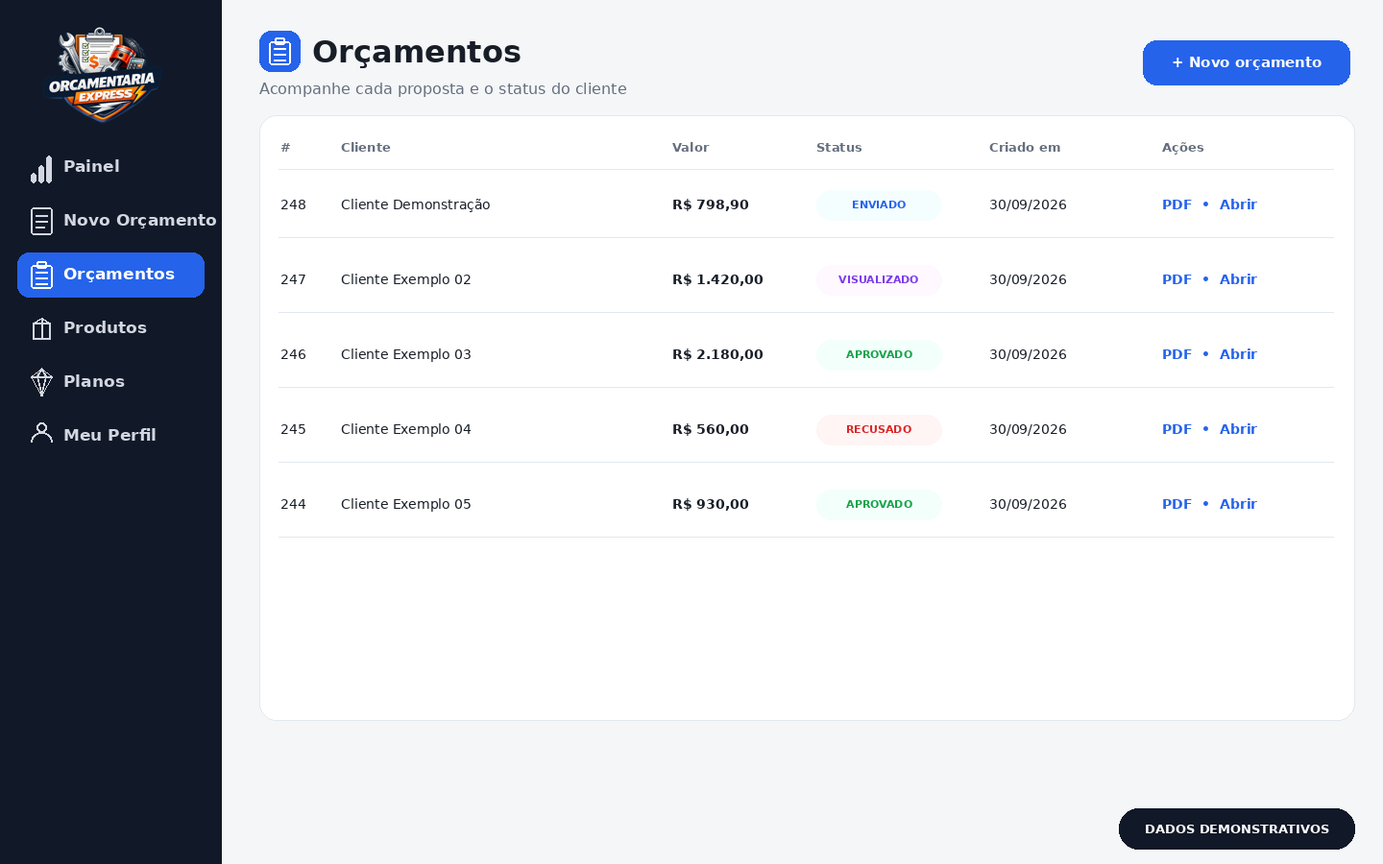
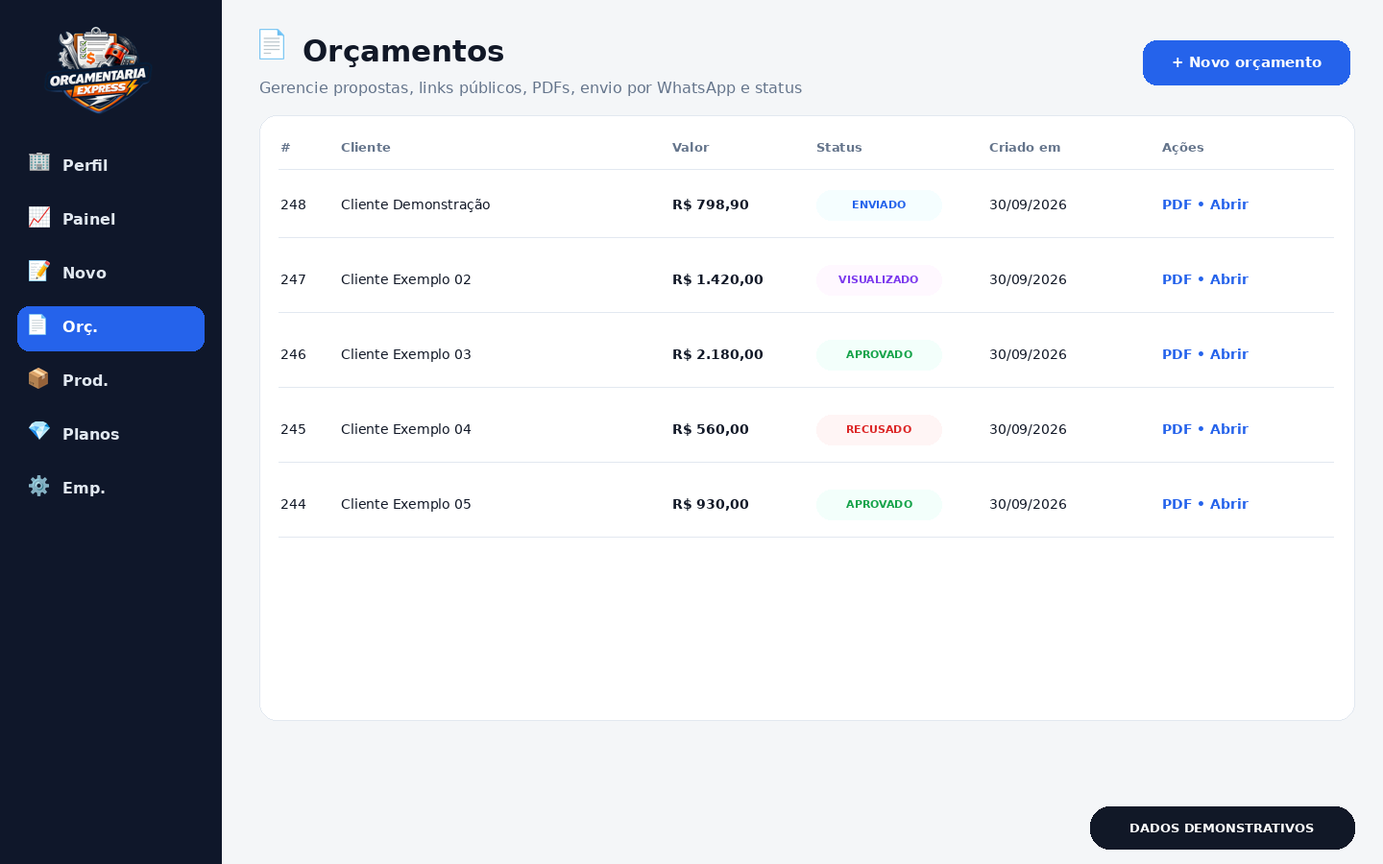
Padroniza títulos do sistema e atualiza README com novos screenshots

diff --git a/public/novo_orcamento.php b/public/novo_orcamento.php
@@ -8,8 +8,8 @@ layout_header('Novo Orçamento');
 ?>
 
 <style>
-.orc-wrap{max-width:980px;margin:0 auto;padding-bottom:92px}.orc-top{display:flex;align-items:flex-start;justify-content:space-between;gap:16px;margin-bottom:18px}.orc-title h2{font-size:clamp(1.35rem,2vw,1.9rem);font-weight:800;color:#111827;margin:0}.orc-title p{margin:4px 0 0;color:#6b7280;font-size:.95rem}.orc-back{color:#4b5563;font-weight:700;text-decoration:none;white-space:nowrap}.orc-card{background:#fff;border:1px solid #e5e7eb;border-radius:22px;box-shadow:0 12px 30px rgba(15,23,42,.08);overflow:hidden}.orc-progress{display:grid;grid-template-columns:repeat(3,1fr);gap:10px;padding:16px;background:linear-gradient(180deg,#f8fafc,#fff);border-bottom:1px solid #e5e7eb}.orc-step-pill{display:flex;align-items:center;gap:10px;padding:12px;border-radius:18px;border:1px solid #e5e7eb;background:#fff;color:#6b7280}.orc-step-pill strong{display:flex;align-items:center;justify-content:center;width:30px;height:30px;border-radius:999px;background:#f3f4f6;color:#374151;font-size:.9rem}.orc-step-pill span{font-weight:800;font-size:.92rem}.orc-step-pill small{display:block;font-size:.72rem;font-weight:600;color:#9ca3af}.orc-step-pill.active{background:#eff6ff;border-color:#bfdbfe;color:#1d4ed8}.orc-step-pill.active strong{background:#2563eb;color:#fff}.orc-step-pill.done{background:#ecfdf5;border-color:#bbf7d0;color:#047857}.orc-step-pill.done strong{background:#16a34a;color:#fff}.orc-body{padding:20px}.orc-step{display:none}.orc-step.active{display:block}.orc-section-head{display:flex;align-items:flex-start;justify-content:space-between;gap:16px;margin-bottom:16px}.orc-section-head h3{font-size:1.25rem;font-weight:900;color:#111827;margin:0}.orc-section-head p{margin:4px 0 0;color:#6b7280;font-size:.95rem;line-height:1.45}.orc-help{background:#eff6ff;border:1px solid #bfdbfe;color:#1e40af;border-radius:16px;padding:12px 14px;font-size:.9rem;line-height:1.45;margin-bottom:16px}.orc-grid{display:grid;grid-template-columns:1fr 1fr;gap:14px}.orc-field label{display:flex;align-items:center;gap:7px;font-weight:800;color:#374151;margin-bottom:7px}.orc-field input,.orc-field textarea{width:100%;border:1px solid #d1d5db;border-radius:16px;padding:14px 15px;font-size:1rem;outline:none;background:#fff;transition:.18s}.orc-field input:focus,.orc-field textarea:focus{border-color:#2563eb;box-shadow:0 0 0 4px rgba(37,99,235,.12)}.orc-field .hint{font-size:.82rem;color:#6b7280;margin-top:6px}.orc-actions{display:flex;align-items:center;justify-content:space-between;gap:12px;margin-top:20px;border-top:1px solid #f3f4f6;padding-top:18px}.orc-btn{border:0;border-radius:16px;padding:14px 18px;font-weight:900;cursor:pointer;min-height:50px;transition:.18s;text-align:center}.orc-btn:disabled{opacity:.6;cursor:not-allowed}.orc-btn-primary{background:#16a34a;color:#fff;box-shadow:0 10px 20px rgba(22,163,74,.22)}.orc-btn-primary:hover{background:#15803d}.orc-btn-blue{background:#2563eb;color:#fff;box-shadow:0 10px 20px rgba(37,99,235,.22)}.orc-btn-blue:hover{background:#1d4ed8}.orc-btn-light{background:#f3f4f6;color:#374151}.orc-btn-light:hover{background:#e5e7eb}.orc-btn-danger{background:#fee2e2;color:#b91c1c}.orc-btn-danger:hover{background:#fecaca}.orc-btn-full{width:100%}.orc-search-wrap{position:relative}.orc-search-row{display:grid;grid-template-columns:1fr auto;gap:10px}.orc-results{position:absolute;left:0;right:0;top:calc(100% + 8px);background:#fff;border:1px solid #e5e7eb;border-radius:18px;box-shadow:0 18px 40px rgba(15,23,42,.18);overflow:hidden;z-index:20;display:none}.orc-result{width:100%;display:flex;align-items:center;justify-content:space-between;gap:10px;padding:13px 14px;background:#fff;border:0;border-bottom:1px solid #f3f4f6;cursor:pointer;text-align:left}.orc-result:hover{background:#f9fafb}.orc-result strong{color:#111827}.orc-result span{color:#16a34a;font-weight:900;white-space:nowrap}.orc-empty{border:1px dashed #cbd5e1;border-radius:18px;padding:18px;text-align:center;color:#64748b;background:#f8fafc}.orc-items{display:flex;flex-direction:column;gap:12px;margin-top:16px}.orc-item{border:1px solid #e5e7eb;background:#fff;border-radius:20px;padding:14px}.orc-item{--orc-remove-slot:36px}.orc-item-head{display:grid;grid-template-columns:minmax(0,1fr) var(--orc-remove-slot);gap:12px;align-items:start;margin-bottom:12px}.orc-item-head .orc-field{min-width:0}.js-remover{width:var(--orc-remove-slot);height:50px;display:flex;align-items:center;justify-content:flex-end}.orc-item-name{font-weight:900;color:#111827;line-height:1.3;word-break:break-word}.orc-item-controls{display:grid;grid-template-columns:160px 1fr 120px;gap:10px;align-items:end;padding-right:calc(var(--orc-remove-slot) + 12px);box-sizing:border-box}.orc-qty{display:grid;grid-template-columns:48px minmax(0,1fr) 48px;border:1px solid #d1d5db;border-radius:14px;overflow:hidden;height:48px;background:#fff}.orc-qty button{width:48px;border:0;background:#f3f4f6;font-size:1.35rem;font-weight:900;cursor:pointer}.orc-qty input{width:100%;min-width:0;text-align:center;border:0;outline:none;font-weight:900}.orc-price input{height:48px;text-align:right}.orc-subtotal{text-align:right;font-weight:900;color:#111827;padding-bottom:12px}.orc-total-box{display:flex;align-items:center;justify-content:space-between;gap:12px;background:#111827;color:#fff;border-radius:20px;padding:16px 18px;margin-top:16px}.orc-total-box span{color:#d1d5db;font-weight:700}.orc-total-box strong{font-size:1.45rem}.orc-review{display:grid;grid-template-columns:1fr 1fr;gap:14px;margin-bottom:16px}.orc-review-card{border:1px solid #e5e7eb;border-radius:18px;padding:15px;background:#fff}.orc-review-card h4{margin:0 0 8px;font-size:.9rem;color:#6b7280;text-transform:uppercase;letter-spacing:.04em}.orc-review-card p{margin:0;color:#111827;font-weight:800;line-height:1.5}.orc-review-list{border:1px solid #e5e7eb;border-radius:18px;overflow:hidden}.orc-review-row{display:grid;grid-template-columns:1fr auto;gap:10px;padding:13px 15px;border-bottom:1px solid #f3f4f6}.orc-review-row:last-child{border-bottom:0}.orc-review-row small{display:block;color:#6b7280;margin-top:3px}.orc-save-grid{display:grid;grid-template-columns:1fr 1fr;gap:12px}.orc-sticky-summary{display:none}.orc-tooltip{display:inline-flex;align-items:center;justify-content:center;width:20px;height:20px;border-radius:999px;background:#eef2ff;color:#3730a3;font-size:.78rem;font-weight:900;cursor:help;position:relative}.orc-tooltip:hover::after,.orc-tooltip:focus::after{content:attr(data-tip);position:absolute;left:50%;bottom:calc(100% + 8px);transform:translateX(-50%);background:#111827;color:#fff;width:230px;padding:9px 10px;border-radius:10px;font-size:.78rem;font-weight:600;line-height:1.35;z-index:30;text-align:left}.orc-alert{display:none;border-radius:16px;padding:12px 14px;margin-bottom:14px;font-size:.92rem;font-weight:700}.orc-alert.show{display:block}.orc-alert.err{background:#fef2f2;color:#991b1b;border:1px solid #fecaca}.orc-alert.ok{background:#ecfdf5;color:#065f46;border:1px solid #bbf7d0}.orc-alert.info{background:#eff6ff;color:#1e40af;border:1px solid #bfdbfe}
-@media(max-width:767px){.orc-wrap{padding:0 0 188px}.orc-top{align-items:center;margin-bottom:12px}.orc-card{border-radius:18px}.orc-progress{grid-template-columns:1fr;gap:7px;padding:12px}.orc-step-pill{padding:10px 12px}.orc-step-pill:not(.active):not(.done){display:none}.orc-body{padding:15px}.orc-section-head{display:block}.orc-grid,.orc-review,.orc-save-grid{grid-template-columns:1fr}.orc-search-row{grid-template-columns:1fr}.orc-item-controls{grid-template-columns:1fr;padding-right:calc(var(--orc-remove-slot) + 12px)}.orc-subtotal{padding-bottom:0}.orc-actions{position:sticky;bottom:132px;background:#fff;margin-left:-15px;margin-right:-15px;padding:12px 15px;border-top:1px solid #e5e7eb;box-shadow:0 -8px 20px rgba(15,23,42,.08);z-index:10}.orc-actions .orc-btn{flex:1}.orc-total-box{margin-bottom:18px}.orc-sticky-summary{display:flex;align-items:center;justify-content:space-between;gap:12px;position:fixed;left:0;right:0;bottom:75px;background:#111827;color:#fff;padding:10px 14px;z-index:30;box-shadow:0 -10px 25px rgba(15,23,42,.18)}.orc-sticky-summary small{display:block;color:#cbd5e1;font-weight:700}.orc-sticky-summary strong{font-size:1.08rem}.orc-tooltip:hover::after,.orc-tooltip:focus::after{left:auto;right:-6px;transform:none;width:210px}.orc-title h2{font-size:1.25rem}.orc-title p{font-size:.85rem}#orcApp[data-etapa="1"]{padding-bottom:32px}#orcApp[data-etapa="1"] .orc-actions{position:static;bottom:auto;background:transparent;margin-left:0;margin-right:0;padding:18px 0 0;border-top:1px solid #f3f4f6;box-shadow:none;z-index:auto}#orcApp[data-etapa="1"]~.orc-sticky-summary{display:none}}
+.orc-wrap{max-width:980px;margin:0 auto;padding-bottom:92px}.orc-top{display:flex;align-items:flex-start;justify-content:space-between;gap:16px;margin-bottom:18px}.orc-title h2{font-size:1.25rem;font-weight:700;line-height:1.2;color:#111827;margin:0}.orc-title p{margin:4px 0 0;color:#6b7280;font-size:.95rem}.orc-back{color:#4b5563;font-weight:700;text-decoration:none;white-space:nowrap}.orc-card{background:#fff;border:1px solid #e5e7eb;border-radius:22px;box-shadow:0 12px 30px rgba(15,23,42,.08);overflow:hidden}.orc-progress{display:grid;grid-template-columns:repeat(3,1fr);gap:10px;padding:16px;background:linear-gradient(180deg,#f8fafc,#fff);border-bottom:1px solid #e5e7eb}.orc-step-pill{display:flex;align-items:center;gap:10px;padding:12px;border-radius:18px;border:1px solid #e5e7eb;background:#fff;color:#6b7280}.orc-step-pill strong{display:flex;align-items:center;justify-content:center;width:30px;height:30px;border-radius:999px;background:#f3f4f6;color:#374151;font-size:.9rem}.orc-step-pill span{font-weight:800;font-size:.92rem}.orc-step-pill small{display:block;font-size:.72rem;font-weight:600;color:#9ca3af}.orc-step-pill.active{background:#eff6ff;border-color:#bfdbfe;color:#1d4ed8}.orc-step-pill.active strong{background:#2563eb;color:#fff}.orc-step-pill.done{background:#ecfdf5;border-color:#bbf7d0;color:#047857}.orc-step-pill.done strong{background:#16a34a;color:#fff}.orc-body{padding:20px}.orc-step{display:none}.orc-step.active{display:block}.orc-section-head{display:flex;align-items:flex-start;justify-content:space-between;gap:16px;margin-bottom:16px}.orc-section-head h3{font-size:1.25rem;font-weight:900;color:#111827;margin:0}.orc-section-head p{margin:4px 0 0;color:#6b7280;font-size:.95rem;line-height:1.45}.orc-help{background:#eff6ff;border:1px solid #bfdbfe;color:#1e40af;border-radius:16px;padding:12px 14px;font-size:.9rem;line-height:1.45;margin-bottom:16px}.orc-grid{display:grid;grid-template-columns:1fr 1fr;gap:14px}.orc-field label{display:flex;align-items:center;gap:7px;font-weight:800;color:#374151;margin-bottom:7px}.orc-field input,.orc-field textarea{width:100%;border:1px solid #d1d5db;border-radius:16px;padding:14px 15px;font-size:1rem;outline:none;background:#fff;transition:.18s}.orc-field input:focus,.orc-field textarea:focus{border-color:#2563eb;box-shadow:0 0 0 4px rgba(37,99,235,.12)}.orc-field .hint{font-size:.82rem;color:#6b7280;margin-top:6px}.orc-actions{display:flex;align-items:center;justify-content:space-between;gap:12px;margin-top:20px;border-top:1px solid #f3f4f6;padding-top:18px}.orc-btn{border:0;border-radius:16px;padding:14px 18px;font-weight:900;cursor:pointer;min-height:50px;transition:.18s;text-align:center}.orc-btn:disabled{opacity:.6;cursor:not-allowed}.orc-btn-primary{background:#16a34a;color:#fff;box-shadow:0 10px 20px rgba(22,163,74,.22)}.orc-btn-primary:hover{background:#15803d}.orc-btn-blue{background:#2563eb;color:#fff;box-shadow:0 10px 20px rgba(37,99,235,.22)}.orc-btn-blue:hover{background:#1d4ed8}.orc-btn-light{background:#f3f4f6;color:#374151}.orc-btn-light:hover{background:#e5e7eb}.orc-btn-danger{background:#fee2e2;color:#b91c1c}.orc-btn-danger:hover{background:#fecaca}.orc-btn-full{width:100%}.orc-search-wrap{position:relative}.orc-search-row{display:grid;grid-template-columns:1fr auto;gap:10px}.orc-results{position:absolute;left:0;right:0;top:calc(100% + 8px);background:#fff;border:1px solid #e5e7eb;border-radius:18px;box-shadow:0 18px 40px rgba(15,23,42,.18);overflow:hidden;z-index:20;display:none}.orc-result{width:100%;display:flex;align-items:center;justify-content:space-between;gap:10px;padding:13px 14px;background:#fff;border:0;border-bottom:1px solid #f3f4f6;cursor:pointer;text-align:left}.orc-result:hover{background:#f9fafb}.orc-result strong{color:#111827}.orc-result span{color:#16a34a;font-weight:900;white-space:nowrap}.orc-empty{border:1px dashed #cbd5e1;border-radius:18px;padding:18px;text-align:center;color:#64748b;background:#f8fafc}.orc-items{display:flex;flex-direction:column;gap:12px;margin-top:16px}.orc-item{border:1px solid #e5e7eb;background:#fff;border-radius:20px;padding:14px}.orc-item{--orc-remove-slot:36px}.orc-item-head{display:grid;grid-template-columns:minmax(0,1fr) var(--orc-remove-slot);gap:12px;align-items:start;margin-bottom:12px}.orc-item-head .orc-field{min-width:0}.js-remover{width:var(--orc-remove-slot);height:50px;display:flex;align-items:center;justify-content:flex-end}.orc-item-name{font-weight:900;color:#111827;line-height:1.3;word-break:break-word}.orc-item-controls{display:grid;grid-template-columns:160px 1fr 120px;gap:10px;align-items:end;padding-right:calc(var(--orc-remove-slot) + 12px);box-sizing:border-box}.orc-qty{display:grid;grid-template-columns:48px minmax(0,1fr) 48px;border:1px solid #d1d5db;border-radius:14px;overflow:hidden;height:48px;background:#fff}.orc-qty button{width:48px;border:0;background:#f3f4f6;font-size:1.35rem;font-weight:900;cursor:pointer}.orc-qty input{width:100%;min-width:0;text-align:center;border:0;outline:none;font-weight:900}.orc-price input{height:48px;text-align:right}.orc-subtotal{text-align:right;font-weight:900;color:#111827;padding-bottom:12px}.orc-total-box{display:flex;align-items:center;justify-content:space-between;gap:12px;background:#111827;color:#fff;border-radius:20px;padding:16px 18px;margin-top:16px}.orc-total-box span{color:#d1d5db;font-weight:700}.orc-total-box strong{font-size:1.45rem}.orc-review{display:grid;grid-template-columns:1fr 1fr;gap:14px;margin-bottom:16px}.orc-review-card{border:1px solid #e5e7eb;border-radius:18px;padding:15px;background:#fff}.orc-review-card h4{margin:0 0 8px;font-size:.9rem;color:#6b7280;text-transform:uppercase;letter-spacing:.04em}.orc-review-card p{margin:0;color:#111827;font-weight:800;line-height:1.5}.orc-review-list{border:1px solid #e5e7eb;border-radius:18px;overflow:hidden}.orc-review-row{display:grid;grid-template-columns:1fr auto;gap:10px;padding:13px 15px;border-bottom:1px solid #f3f4f6}.orc-review-row:last-child{border-bottom:0}.orc-review-row small{display:block;color:#6b7280;margin-top:3px}.orc-save-grid{display:grid;grid-template-columns:1fr 1fr;gap:12px}.orc-sticky-summary{display:none}.orc-tooltip{display:inline-flex;align-items:center;justify-content:center;width:20px;height:20px;border-radius:999px;background:#eef2ff;color:#3730a3;font-size:.78rem;font-weight:900;cursor:help;position:relative}.orc-tooltip:hover::after,.orc-tooltip:focus::after{content:attr(data-tip);position:absolute;left:50%;bottom:calc(100% + 8px);transform:translateX(-50%);background:#111827;color:#fff;width:230px;padding:9px 10px;border-radius:10px;font-size:.78rem;font-weight:600;line-height:1.35;z-index:30;text-align:left}.orc-alert{display:none;border-radius:16px;padding:12px 14px;margin-bottom:14px;font-size:.92rem;font-weight:700}.orc-alert.show{display:block}.orc-alert.err{background:#fef2f2;color:#991b1b;border:1px solid #fecaca}.orc-alert.ok{background:#ecfdf5;color:#065f46;border:1px solid #bbf7d0}.orc-alert.info{background:#eff6ff;color:#1e40af;border:1px solid #bfdbfe}
+@media(min-width:768px){.orc-title h2{font-size:1.5rem}}@media(max-width:767px){.orc-wrap{padding:0 0 188px}.orc-top{align-items:center;margin-bottom:12px}.orc-card{border-radius:18px}.orc-progress{grid-template-columns:1fr;gap:7px;padding:12px}.orc-step-pill{padding:10px 12px}.orc-step-pill:not(.active):not(.done){display:none}.orc-body{padding:15px}.orc-section-head{display:block}.orc-grid,.orc-review,.orc-save-grid{grid-template-columns:1fr}.orc-search-row{grid-template-columns:1fr}.orc-item-controls{grid-template-columns:1fr;padding-right:calc(var(--orc-remove-slot) + 12px)}.orc-subtotal{padding-bottom:0}.orc-actions{position:sticky;bottom:132px;background:#fff;margin-left:-15px;margin-right:-15px;padding:12px 15px;border-top:1px solid #e5e7eb;box-shadow:0 -8px 20px rgba(15,23,42,.08);z-index:10}.orc-actions .orc-btn{flex:1}.orc-total-box{margin-bottom:18px}.orc-sticky-summary{display:flex;align-items:center;justify-content:space-between;gap:12px;position:fixed;left:0;right:0;bottom:75px;background:#111827;color:#fff;padding:10px 14px;z-index:30;box-shadow:0 -10px 25px rgba(15,23,42,.18)}.orc-sticky-summary small{display:block;color:#cbd5e1;font-weight:700}.orc-sticky-summary strong{font-size:1.08rem}.orc-tooltip:hover::after,.orc-tooltip:focus::after{left:auto;right:-6px;transform:none;width:210px}.orc-title h2{font-size:1.25rem}.orc-title p{font-size:.85rem}#orcApp[data-etapa="1"]{padding-bottom:32px}#orcApp[data-etapa="1"] .orc-actions{position:static;bottom:auto;background:transparent;margin-left:0;margin-right:0;padding:18px 0 0;border-top:1px solid #f3f4f6;box-shadow:none;z-index:auto}#orcApp[data-etapa="1"]~.orc-sticky-summary{display:none}}
 </style>
 
 <div class="orc-wrap" id="orcApp" data-etapa="1">

diff --git a/public/produto.php b/public/produto.php
@@ -6,13 +6,13 @@ checkAuth();
 $empresa_id = empresa_id();
 
 $id = isset($_GET['id']) ? $_GET['id'] : null;
-$titulo = $id ? "Editar Produto" : "Novo Produto";
+$titulo = $id ? "📦 Editar Produto" : "📦 Novo Produto";
 
 layout_header($titulo);
 ?>
 
 <style>
-.prod-wrap{max-width:980px;margin:0 auto;padding-bottom:84px}.prod-top{display:flex;align-items:flex-start;justify-content:space-between;gap:16px;margin-bottom:18px}.prod-title h2{font-size:clamp(1.35rem,2vw,1.9rem);font-weight:800;color:#111827;margin:0}.prod-title p{margin:4px 0 0;color:#6b7280;font-size:.95rem;line-height:1.45}.prod-back{color:#4b5563;font-weight:500;text-decoration:none;white-space:nowrap;border:0;background:transparent;cursor:pointer}.prod-card{background:#fff;border:1px solid #e5e7eb;border-radius:22px;box-shadow:0 12px 30px rgba(15,23,42,.08);overflow:hidden}.prod-progress{display:grid;grid-template-columns:repeat(3,1fr);gap:10px;padding:16px;background:linear-gradient(180deg,#f8fafc,#fff);border-bottom:1px solid #e5e7eb}.prod-step-pill{display:flex;align-items:center;gap:10px;padding:12px;border-radius:18px;border:1px solid #e5e7eb;background:#fff;color:#6b7280}.prod-step-pill strong{display:flex;align-items:center;justify-content:center;width:30px;height:30px;border-radius:999px;background:#f3f4f6;color:#374151;font-size:.9rem;flex:0 0 auto}.prod-step-pill span{font-weight:900;font-size:.92rem}.prod-step-pill small{display:block;font-size:.72rem;font-weight:700;color:#9ca3af;line-height:1.2}.prod-step-pill.active{background:#eff6ff;border-color:#bfdbfe;color:#1d4ed8}.prod-step-pill.active strong{background:#2563eb;color:#fff}.prod-step-pill.done{background:#ecfdf5;border-color:#bbf7d0;color:#047857}.prod-step-pill.done strong{background:#16a34a;color:#fff}.prod-body{padding:20px}.prod-step{display:none}.prod-step.active{display:block}.prod-section-head{display:flex;align-items:flex-start;justify-content:space-between;gap:16px;margin-bottom:16px}.prod-section-head h3{font-size:1.25rem;font-weight:900;color:#111827;margin:0}.prod-section-head p{margin:4px 0 0;color:#6b7280;font-size:.95rem;line-height:1.45}.prod-help{background:#eff6ff;border:1px solid #bfdbfe;color:#1e40af;border-radius:16px;padding:12px 14px;margin-bottom:16px;font-size:.92rem;line-height:1.45}.prod-grid{display:grid;grid-template-columns:1fr 220px;gap:14px}.prod-field label{display:flex;align-items:center;justify-content:space-between;gap:10px;font-size:.88rem;font-weight:900;color:#374151;margin:0 0 7px 2px}.prod-field small{color:#9ca3af;font-weight:700}.prod-input{width:100%;border:1px solid #d1d5db;border-radius:16px;padding:14px 14px;font-size:1rem;background:#fff;outline:none;transition:.18s}.prod-input:focus{border-color:#2563eb;box-shadow:0 0 0 4px rgba(37,99,235,.12)}.prod-money{text-align:right;font-weight:900;color:#111827}.prod-actions{display:flex;align-items:center;justify-content:space-between;gap:12px;margin-top:18px}.prod-actions-left,.prod-actions-right{display:flex;align-items:center;gap:10px;flex-wrap:wrap}.prod-btn{border:0;border-radius:16px;padding:12px 16px;font-weight:900;cursor:pointer;transition:.18s;display:inline-flex;align-items:center;justify-content:center;gap:8px;min-height:46px}.prod-btn:disabled{opacity:.65;cursor:not-allowed}.prod-btn-primary{background:#16a34a;color:#fff;box-shadow:0 10px 22px rgba(22,163,74,.22)}.prod-btn-primary:hover{background:#15803d}.prod-btn-blue{background:#2563eb;color:#fff;box-shadow:0 10px 22px rgba(37,99,235,.22)}.prod-btn-blue:hover{background:#1d4ed8}.prod-btn-light{background:#f3f4f6;color:#374151}.prod-btn-light:hover{background:#e5e7eb}.prod-btn-danger{background:#b91c1c;color:#fff}.prod-btn-danger:hover{background:#991b1b}.prod-alert{display:none;margin-bottom:14px;border-radius:16px;padding:12px 14px;font-weight:800;font-size:.92rem}.prod-alert.show{display:block}.prod-alert.err{background:#fef2f2;color:#991b1b;border:1px solid #fecaca}.prod-alert.ok{background:#ecfdf5;color:#047857;border:1px solid #bbf7d0}.prod-alert.info{background:#eff6ff;color:#1d4ed8;border:1px solid #bfdbfe}.prod-review{border:1px solid #e5e7eb;border-radius:18px;overflow:hidden;background:#fff}.prod-review-row{display:flex;justify-content:space-between;gap:16px;padding:14px 16px;border-bottom:1px solid #f3f4f6}.prod-review-row:last-child{border-bottom:0}.prod-review-row span{color:#6b7280;font-weight:800}.prod-review-row strong{color:#111827;text-align:right}.prod-list-head{display:flex;align-items:center;justify-content:space-between;gap:12px;margin:18px 0 12px}.prod-list-head h3{font-size:1.15rem;font-weight:900;color:#111827;margin:0}.prod-list-head p{color:#6b7280;font-size:.9rem;margin:3px 0 0}.prod-search-wrap{display:flex;align-items:center;gap:10px;margin-bottom:12px}.prod-search{width:100%;border:1px solid #d1d5db;border-radius:16px;padding:13px 14px;outline:none}.prod-search:focus{border-color:#2563eb;box-shadow:0 0 0 4px rgba(37,99,235,.12)}.prod-list{display:grid;gap:10px}.prod-empty{text-align:center;color:#6b7280;background:#f9fafb;border:1px dashed #d1d5db;border-radius:18px;padding:22px}.prod-item{background:#fff;border:1px solid #e5e7eb;border-radius:18px;padding:12px;box-shadow:0 8px 18px rgba(15,23,42,.05)}.prod-item-grid{display:grid;grid-template-columns:minmax(0,1fr) 160px auto;gap:10px;align-items:center}.prod-item-title{position:relative}.prod-item-title input,.prod-item-price input{width:100%;border:1px solid #d1d5db;border-radius:14px;padding:11px 12px;outline:none}.prod-item-title input:focus,.prod-item-price input:focus{border-color:#2563eb;box-shadow:0 0 0 4px rgba(37,99,235,.1)}.prod-item-price input{text-align:right;font-weight:900}.prod-item-actions{display:flex;align-items:center;gap:8px}.prod-mini{min-height:40px;padding:9px 11px;border-radius:13px;font-size:.88rem}.prod-pagination{display:flex;justify-content:space-between;align-items:center;margin-top:14px;gap:10px}.prod-page-info{font-weight:900;color:#4b5563;font-size:.9rem}.prod-stat{display:flex;gap:10px;flex-wrap:wrap;margin-top:14px}.prod-stat-card{background:#f9fafb;border:1px solid #e5e7eb;border-radius:16px;padding:12px 14px;min-width:160px}.prod-stat-card small{display:block;color:#6b7280;font-weight:800;font-size:.78rem}.prod-stat-card strong{display:block;color:#111827;font-weight:900;font-size:1.1rem;margin-top:2px}.prod-tip-list{margin:0;padding-left:18px;color:#374151;line-height:1.55}.prod-tip-list li{margin:5px 0}.prod-mobile-only{display:none}@media (max-width:760px){.prod-wrap{padding-bottom:104px}.prod-top{align-items:flex-start}.prod-progress{grid-template-columns:1fr;padding:12px}.prod-step-pill{padding:10px 11px}.prod-body{padding:15px}.prod-grid{grid-template-columns:1fr}.prod-section-head{display:block}.prod-actions{align-items:stretch;flex-direction:column}.prod-actions-left,.prod-actions-right{width:100%;display:grid;grid-template-columns:1fr}.prod-btn{width:100%}.prod-item-grid{grid-template-columns:1fr}.prod-item-actions{display:grid;grid-template-columns:1fr 1fr}.prod-list-head{align-items:flex-start;flex-direction:column}.prod-review-row{display:block}.prod-review-row strong{display:block;text-align:left;margin-top:4px}.prod-stat-card{width:100%}.prod-mobile-only{display:block}}@media (max-width:420px){.prod-title h2{font-size:1.22rem}.prod-title p{font-size:.86rem}.prod-item-actions{grid-template-columns:1fr}.prod-pagination{display:grid;grid-template-columns:1fr;}.prod-page-info{text-align:center;order:-1}}
+.prod-wrap{max-width:980px;margin:0 auto;padding-bottom:84px}.prod-top{display:flex;align-items:flex-start;justify-content:space-between;gap:16px;margin-bottom:18px}.prod-title h2{font-size:1.25rem;font-weight:700;line-height:1.2;color:#111827;margin:0}.prod-title p{margin:4px 0 0;color:#6b7280;font-size:.95rem;line-height:1.45}.prod-back{color:#4b5563;font-weight:500;text-decoration:none;white-space:nowrap;border:0;background:transparent;cursor:pointer}.prod-card{background:#fff;border:1px solid #e5e7eb;border-radius:22px;box-shadow:0 12px 30px rgba(15,23,42,.08);overflow:hidden}.prod-progress{display:grid;grid-template-columns:repeat(3,1fr);gap:10px;padding:16px;background:linear-gradient(180deg,#f8fafc,#fff);border-bottom:1px solid #e5e7eb}.prod-step-pill{display:flex;align-items:center;gap:10px;padding:12px;border-radius:18px;border:1px solid #e5e7eb;background:#fff;color:#6b7280}.prod-step-pill strong{display:flex;align-items:center;justify-content:center;width:30px;height:30px;border-radius:999px;background:#f3f4f6;color:#374151;font-size:.9rem;flex:0 0 auto}.prod-step-pill span{font-weight:900;font-size:.92rem}.prod-step-pill small{display:block;font-size:.72rem;font-weight:700;color:#9ca3af;line-height:1.2}.prod-step-pill.active{background:#eff6ff;border-color:#bfdbfe;color:#1d4ed8}.prod-step-pill.active strong{background:#2563eb;color:#fff}.prod-step-pill.done{background:#ecfdf5;border-color:#bbf7d0;color:#047857}.prod-step-pill.done strong{background:#16a34a;color:#fff}.prod-body{padding:20px}.prod-step{display:none}.prod-step.active{display:block}.prod-section-head{display:flex;align-items:flex-start;justify-content:space-between;gap:16px;margin-bottom:16px}.prod-section-head h3{font-size:1.25rem;font-weight:900;color:#111827;margin:0}.prod-section-head p{margin:4px 0 0;color:#6b7280;font-size:.95rem;line-height:1.45}.prod-help{background:#eff6ff;border:1px solid #bfdbfe;color:#1e40af;border-radius:16px;padding:12px 14px;margin-bottom:16px;font-size:.92rem;line-height:1.45}.prod-grid{display:grid;grid-template-columns:1fr 220px;gap:14px}.prod-field label{display:flex;align-items:center;justify-content:space-between;gap:10px;font-size:.88rem;font-weight:900;color:#374151;margin:0 0 7px 2px}.prod-field small{color:#9ca3af;font-weight:700}.prod-input{width:100%;border:1px solid #d1d5db;border-radius:16px;padding:14px 14px;font-size:1rem;background:#fff;outline:none;transition:.18s}.prod-input:focus{border-color:#2563eb;box-shadow:0 0 0 4px rgba(37,99,235,.12)}.prod-money{text-align:right;font-weight:900;color:#111827}.prod-actions{display:flex;align-items:center;justify-content:space-between;gap:12px;margin-top:18px}.prod-actions-left,.prod-actions-right{display:flex;align-items:center;gap:10px;flex-wrap:wrap}.prod-btn{border:0;border-radius:16px;padding:12px 16px;font-weight:900;cursor:pointer;transition:.18s;display:inline-flex;align-items:center;justify-content:center;gap:8px;min-height:46px}.prod-btn:disabled{opacity:.65;cursor:not-allowed}.prod-btn-primary{background:#16a34a;color:#fff;box-shadow:0 10px 22px rgba(22,163,74,.22)}.prod-btn-primary:hover{background:#15803d}.prod-btn-blue{background:#2563eb;color:#fff;box-shadow:0 10px 22px rgba(37,99,235,.22)}.prod-btn-blue:hover{background:#1d4ed8}.prod-btn-light{background:#f3f4f6;color:#374151}.prod-btn-light:hover{background:#e5e7eb}.prod-btn-danger{background:#b91c1c;color:#fff}.prod-btn-danger:hover{background:#991b1b}.prod-alert{display:none;margin-bottom:14px;border-radius:16px;padding:12px 14px;font-weight:800;font-size:.92rem}.prod-alert.show{display:block}.prod-alert.err{background:#fef2f2;color:#991b1b;border:1px solid #fecaca}.prod-alert.ok{background:#ecfdf5;color:#047857;border:1px solid #bbf7d0}.prod-alert.info{background:#eff6ff;color:#1d4ed8;border:1px solid #bfdbfe}.prod-review{border:1px solid #e5e7eb;border-radius:18px;overflow:hidden;background:#fff}.prod-review-row{display:flex;justify-content:space-between;gap:16px;padding:14px 16px;border-bottom:1px solid #f3f4f6}.prod-review-row:last-child{border-bottom:0}.prod-review-row span{color:#6b7280;font-weight:800}.prod-review-row strong{color:#111827;text-align:right}.prod-list-head{display:flex;align-items:center;justify-content:space-between;gap:12px;margin:18px 0 12px}.prod-list-head h3{font-size:1.15rem;font-weight:900;color:#111827;margin:0}.prod-list-head p{color:#6b7280;font-size:.9rem;margin:3px 0 0}.prod-search-wrap{display:flex;align-items:center;gap:10px;margin-bottom:12px}.prod-search{width:100%;border:1px solid #d1d5db;border-radius:16px;padding:13px 14px;outline:none}.prod-search:focus{border-color:#2563eb;box-shadow:0 0 0 4px rgba(37,99,235,.12)}.prod-list{display:grid;gap:10px}.prod-empty{text-align:center;color:#6b7280;background:#f9fafb;border:1px dashed #d1d5db;border-radius:18px;padding:22px}.prod-item{background:#fff;border:1px solid #e5e7eb;border-radius:18px;padding:12px;box-shadow:0 8px 18px rgba(15,23,42,.05)}.prod-item-grid{display:grid;grid-template-columns:minmax(0,1fr) 160px auto;gap:10px;align-items:center}.prod-item-title{position:relative}.prod-item-title input,.prod-item-price input{width:100%;border:1px solid #d1d5db;border-radius:14px;padding:11px 12px;outline:none}.prod-item-title input:focus,.prod-item-price input:focus{border-color:#2563eb;box-shadow:0 0 0 4px rgba(37,99,235,.1)}.prod-item-price input{text-align:right;font-weight:900}.prod-item-actions{display:flex;align-items:center;gap:8px}.prod-mini{min-height:40px;padding:9px 11px;border-radius:13px;font-size:.88rem}.prod-pagination{display:flex;justify-content:space-between;align-items:center;margin-top:14px;gap:10px}.prod-page-info{font-weight:900;color:#4b5563;font-size:.9rem}.prod-stat{display:flex;gap:10px;flex-wrap:wrap;margin-top:14px}.prod-stat-card{background:#f9fafb;border:1px solid #e5e7eb;border-radius:16px;padding:12px 14px;min-width:160px}.prod-stat-card small{display:block;color:#6b7280;font-weight:800;font-size:.78rem}.prod-stat-card strong{display:block;color:#111827;font-weight:900;font-size:1.1rem;margin-top:2px}.prod-tip-list{margin:0;padding-left:18px;color:#374151;line-height:1.55}.prod-tip-list li{margin:5px 0}.prod-mobile-only{display:none}@media (max-width:760px){.prod-wrap{padding-bottom:104px}.prod-top{align-items:flex-start}.prod-progress{grid-template-columns:1fr;padding:12px}.prod-step-pill{padding:10px 11px}.prod-body{padding:15px}.prod-grid{grid-template-columns:1fr}.prod-section-head{display:block}.prod-actions{align-items:stretch;flex-direction:column}.prod-actions-left,.prod-actions-right{width:100%;display:grid;grid-template-columns:1fr}.prod-btn{width:100%}.prod-item-grid{grid-template-columns:1fr}.prod-item-actions{display:grid;grid-template-columns:1fr 1fr}.prod-list-head{align-items:flex-start;flex-direction:column}.prod-review-row{display:block}.prod-review-row strong{display:block;text-align:left;margin-top:4px}.prod-stat-card{width:100%}.prod-mobile-only{display:block}}@media (min-width:768px){.prod-title h2{font-size:1.5rem}}@media (max-width:420px){.prod-title h2{font-size:1.25rem}.prod-title p{font-size:.86rem}.prod-item-actions{grid-template-columns:1fr}.prod-pagination{display:grid;grid-template-columns:1fr;}.prod-page-info{text-align:center;order:-1}}
 </style>
 
 <div class="prod-wrap" id="prodApp" data-etapa="1">

diff --git a/core/layout.php b/core/layout.php
@@ -110,10 +110,10 @@ function layout_url_is_active(string $href): bool {
 
 function layout_nav_items(bool $isBacuriAdmin): array {
     $items = [
-        ['href' => '/perfil.php', 'label' => 'Meu Perfil', 'short' => 'Perfil', 'emoji' => '🧑'],
+        ['href' => '/perfil.php', 'label' => 'Meu Perfil', 'short' => 'Perfil', 'emoji' => '🏢'],
         ['href' => '/index.php', 'label' => 'Painel', 'short' => 'Painel', 'emoji' => '📈'],
         ['href' => '/novo_orcamento.php', 'label' => 'Novo Orçamento', 'short' => 'Novo', 'emoji' => '📝'],
-        ['href' => '/pages/orcamentos.php', 'label' => 'Orçamentos', 'short' => 'Orç.', 'emoji' => '📋'],
+        ['href' => '/pages/orcamentos.php', 'label' => 'Orçamentos', 'short' => 'Orç.', 'emoji' => '📄'],
         ['href' => '/produto.php', 'label' => 'Produtos', 'short' => 'Prod.', 'emoji' => '📦'],
         ['href' => '/planos.php', 'label' => 'Planos', 'short' => 'Planos', 'emoji' => '💎'],
     ];
@@ -131,7 +131,7 @@ function layout_mobile_nav_items(bool $isBacuriAdmin): array {
     $items = [
         ['href' => '/index.php', 'label' => 'Painel', 'short' => 'Painel', 'emoji' => '📈'],
         ['href' => '/novo_orcamento.php', 'label' => 'Novo Orçamento', 'short' => 'Novo', 'emoji' => '📝'],
-        ['href' => '/pages/orcamentos.php', 'label' => 'Orçamentos', 'short' => 'Orç.', 'emoji' => '📋'],
+        ['href' => '/pages/orcamentos.php', 'label' => 'Orçamentos', 'short' => 'Orç.', 'emoji' => '📄'],
         ['href' => '/produto.php', 'label' => 'Produtos', 'short' => 'Prod.', 'emoji' => '📦'],
         ['href' => '/planos.php', 'label' => 'Planos', 'short' => 'Planos', 'emoji' => '💎'],
     ];

diff --git a/README.md b/README.md
@@ -10,172 +10,115 @@ A plataforma organiza o fluxo comercial da oficina: criação da proposta, catá
 
 ---
 
-## 📸 Visão do sistema
+## 🏢 Perfil da Empresa
 
-### Dashboard comercial
+![Perfil da Empresa](docs/screenshots/perfil-empresa.png)
 
-![Dashboard](docs/screenshots/dashboard.png)
+Área de configuração e acompanhamento da empresa, com informações do plano contratado, consumo mensal de orçamentos e quantidade de produtos ativos.
 
-O painel reúne faturamento aprovado, total proposto, quantidade de orçamentos, conversão final, funil por status, evolução mensal e clientes com maior volume aprovado.
+## 📈 Painel
 
-### Novo orçamento
+![Painel](docs/screenshots/painel.png)
 
-![Novo orçamento](docs/screenshots/novo-orcamento.png)
+Visão comercial com faturamento aprovado, total proposto, volume de orçamentos, funil por status, taxa de conversão, evolução mensal e principais clientes.
 
-Fluxo em três etapas: **Cliente → Itens → Revisão**. O operador informa nome/WhatsApp, adiciona produtos ou serviços e pode ajustar quantidade e preço antes de salvar ou enviar.
+## 📝 Novo Orçamento
 
-### Gestão de orçamentos
+![Novo Orçamento](docs/screenshots/novo-orcamento.png)
+
+Fluxo em três etapas: **Cliente → Itens → Revisão**. O operador informa nome e WhatsApp, adiciona serviços ou produtos e revisa a proposta antes de salvar.
+
+## 📦 Novo Produto
+
+![Novo Produto](docs/screenshots/novo-produto.png)
+
+Cadastro de produtos e serviços reutilizáveis. O preço padrão pode ser alterado em um orçamento específico sem modificar o cadastro principal.
+
+## 📄 Orçamentos
 
 ![Orçamentos](docs/screenshots/orcamentos.png)
 
-Lista centralizada com cliente, valor, status, data e ações. O fluxo previsto no código contempla `rascunho`, `enviado`, `visualizado`, `aprovado` e `recusado`.
+Lista de propostas com cliente, valor, status, data e ações como PDF e abertura do link público.
 
-### Produtos e serviços
-
-![Produtos](docs/screenshots/produtos.png)
-
-Catálogo reutilizável para agilizar novos atendimentos. O preço padrão pode ser alterado em um orçamento específico sem alterar o cadastro principal.
-
-### Proposta pública
-
-![Proposta pública](docs/screenshots/proposta-publica.png)
-
-O cliente abre um link exclusivo, visualiza itens e total e pode **aprovar ou recusar** sem fazer login. Quando uma proposta enviada é aberta, o sistema pode registrar o status como visualizado.
-
-### Planos SaaS
+## 💎 Planos
 
 ![Planos](docs/screenshots/planos.png)
 
-A landing page atual define os planos:
+Tela de planos com limites e recursos do modelo SaaS.
 
 | Plano | Orçamentos/mês | Produtos ativos | Preço |
 |---|---:|---:|---:|
 | FREE | 10 | 20 | R$ 0 |
 | PRO | 1.000 | 500 | R$ 89,90 |
 
+## ⚙ Admin de Empresas
+
+![Admin de Empresas](docs/screenshots/admin-empresas.png)
+
+Área administrativa para gerenciamento de empresas da plataforma, com controle de plano, status, consumo mensal e limite extra.
+
+## 🌐 Proposta Pública
+
+![Proposta pública](docs/screenshots/proposta-publica.png)
+
+O cliente abre um link exclusivo, visualiza itens e total e pode **aprovar ou recusar** sem fazer login.
+
 ---
 
-## ✨ Funcionalidades encontradas no código
+## ✨ Funcionalidades
 
 - criação guiada de orçamentos;
 - cadastro e reaproveitamento de clientes;
 - catálogo de produtos e serviços;
 - quantidade e preço ajustáveis por proposta;
-- snapshots de nome, preço e quantidade nos itens do orçamento;
+- preservação do histórico dos itens do orçamento;
 - geração de PDF;
-- link público de proposta;
+- link público da proposta;
 - aprovação e recusa eletrônica;
-- atualização para status `visualizado`;
-- dashboard de faturamento, proposta, ticket e conversão;
-- funil de orçamentos;
+- status `visualizado`;
+- dashboard com métricas e conversão;
 - duplicação de orçamento;
 - gestão de produtos;
 - planos FREE e PRO;
 - autenticação por e-mail/senha;
 - autenticação Google OAuth;
-- estrutura multitenant por empresa;
-- área administrativa para empresas;
-- integração/fluxo de WhatsApp;
+- estrutura multitenant;
+- integração com WhatsApp;
 - PWA com `manifest.json` e `service-worker.js`.
 
 ---
 
-## 📊 Dados técnicos do projeto analisado
+## 🛠 Ajustes feitos no sistema
 
-O pacote analisado contém, fora de `.git` e `vendor`:
+Foram preparados também os arquivos ajustados do sistema para refletir o que você pediu:
 
-| Item | Quantidade |
-|---|---:|
-| Arquivos próprios do projeto | 71 |
-| Páginas PHP em `public/` | 16 |
-| Endpoints PHP em `public/api/` | 15 |
-| Módulos PHP em `core/` | 8 |
-| Folhas CSS em `css/` | 9 |
-| Imagens em `public/imagens/` | 5 |
+- **ícone em “📦 Novo Produto”** no próprio sistema;
+- **padronização do tamanho dos títulos** para combinar com as demais páginas;
+- alinhamento dos ícones usados em navegação e títulos.
 
-Entidades/tabelas referenciadas no código:
-
-`empresas`, `usuarios`, `clientes`, `produtos`, `modelos_produtos`, `orcamentos`, `orcamento_itens` e `planos`.
-
----
-
-## 🔄 Fluxo comercial
+Arquivos incluídos no pacote:
 
 ```text
-Cliente
-  ↓
-Itens / serviços
-  ↓
-Revisão
-  ↓
-Salvar / Enviar
-  ↓
-PDF + link público
-  ↓
-Visualizado
-  ↓
-Aprovado / Recusado
-  ↓
-Dashboard e conversão
+arquivos-sistema-ajustados/core/layout.php
+arquivos-sistema-ajustados/public/produto.php
+arquivos-sistema-ajustados/public/novo_orcamento.php
 ```
 
 ---
 
-## 🔐 Configuração segura
-
-Credenciais reais devem permanecer somente em:
+## 📂 Estrutura dos screenshots
 
 ```text
-config/env.local.php
-```
-
-Esse arquivo não deve ser versionado.
-
-Arquivos adequados para o Git:
-
-```text
-config/env.php
-config/db.php
-config/env.example.php
-```
-
-O `env.example.php` deve conter **apenas valores fictícios**.
-
----
-
-## ⚙ Tecnologias
-
-- PHP 8+
-- MySQL / MariaDB
-- PDO
-- HTML5 / CSS3 / JavaScript
-- Bootstrap
-- Composer
-- Dompdf
-- Google OAuth
-- arquitetura multitenant
-- PWA (`manifest.json` + `service-worker.js`)
-
----
-
-## 📂 Estrutura principal
-
-```text
-mecanica/
-├── config/
-├── core/
-├── css/
-├── public/
-│   ├── admin/
-│   ├── api/
-│   ├── assets/
-│   ├── imagens/
-│   └── pages/
-├── composer.json
-├── composer.lock
-├── manifest.json
-├── service-worker.js
-└── README.md
+docs/
+└── screenshots/
+    ├── perfil-empresa.png
+    ├── painel.png
+    ├── novo-orcamento.png
+    ├── novo-produto.png
+    ├── orcamentos.png
+    ├── planos.png
+    ├── admin-empresas.png
+    └── proposta-publica.png
 ```
 
 ---
